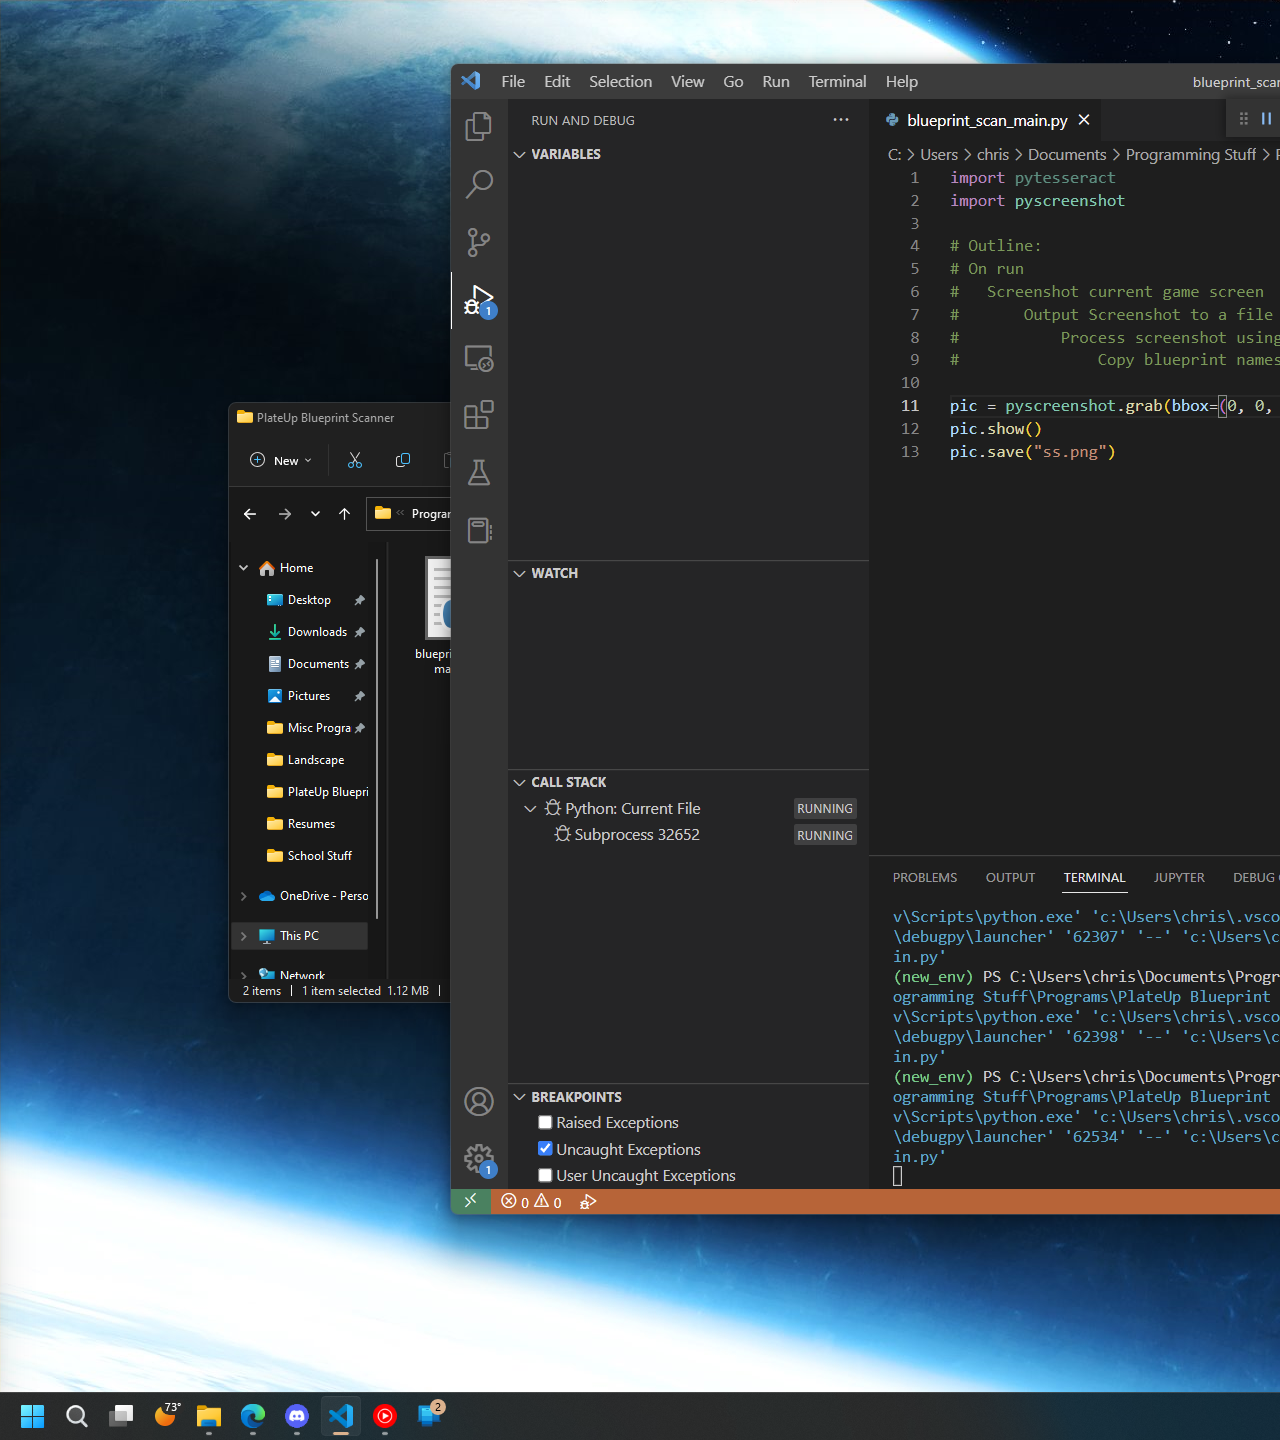
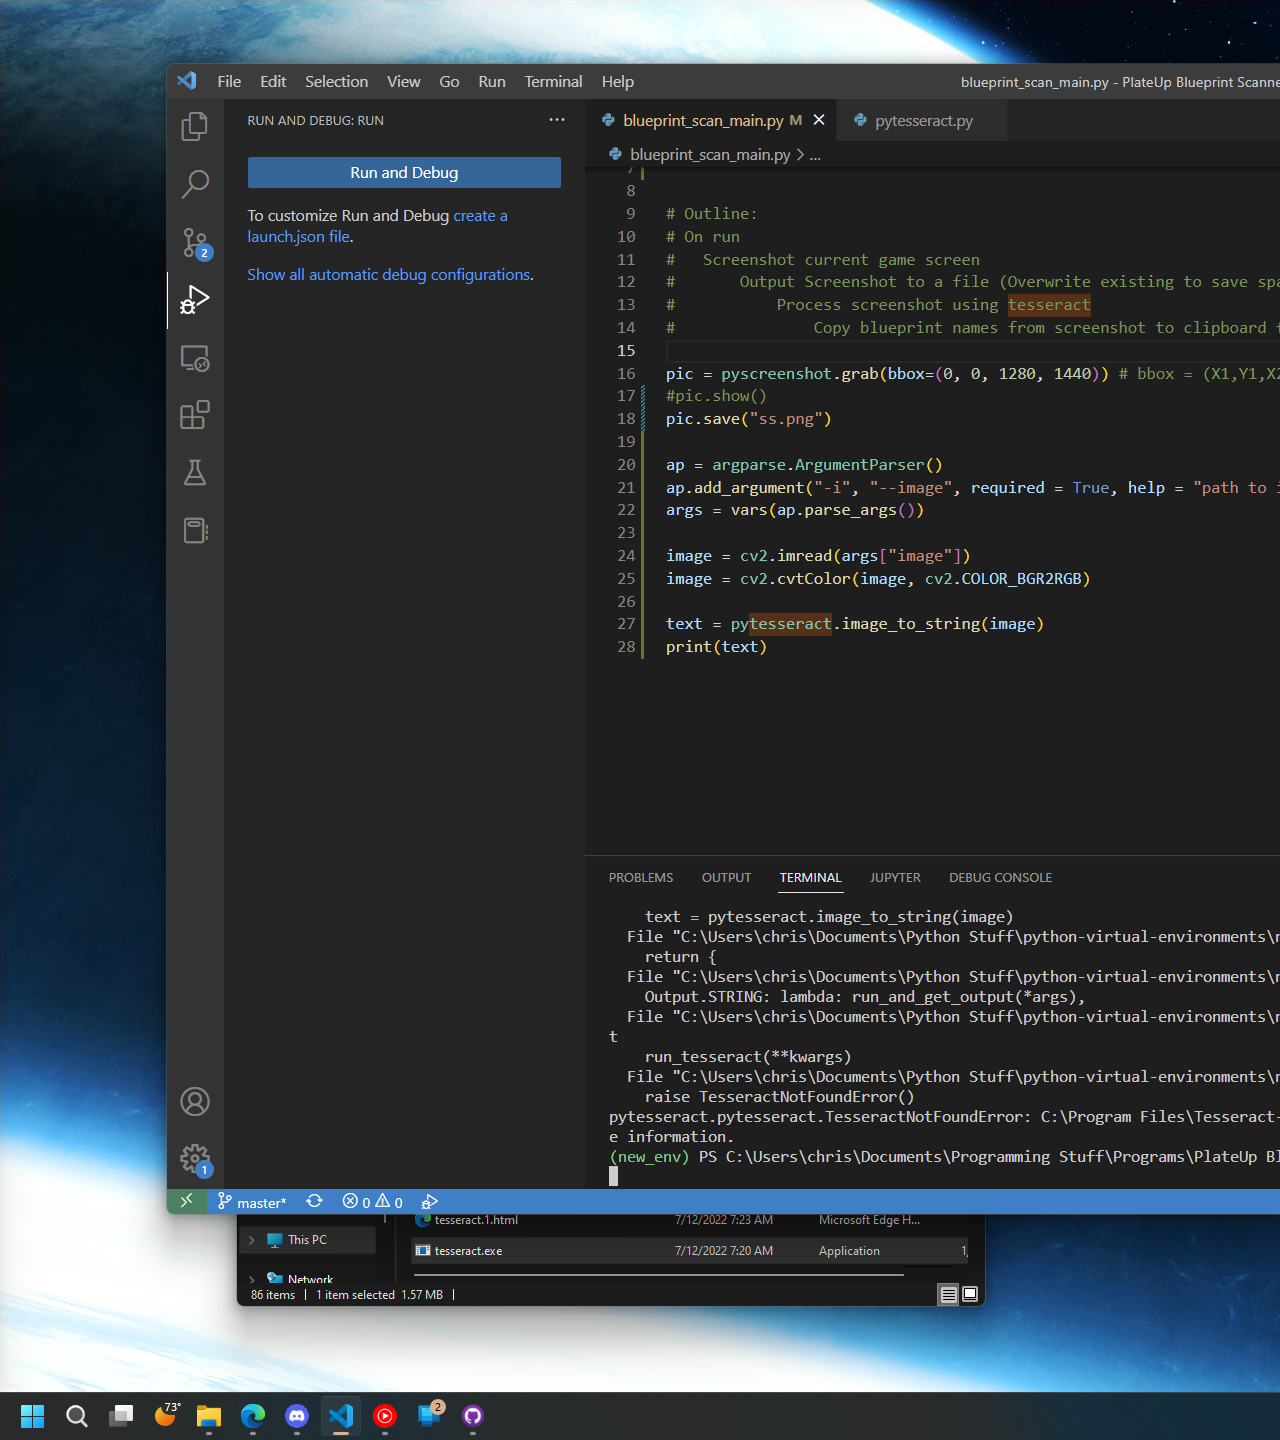
Edit to pytesseract.py's tesseract_cmd to fix

diff --git a/blueprint_scan_main.py b/blueprint_scan_main.py
@@ -1,5 +1,10 @@
 import pytesseract
 import pyscreenshot
+import argparse
+import cv2
+
+
+
 
 # Outline:
 # On run
@@ -9,5 +14,15 @@ import pyscreenshot
 #               Copy blueprint names from screenshot to clipboard for pasting into excel
 
 pic = pyscreenshot.grab(bbox=(0, 0, 1280, 1440)) # bbox = (X1,Y1,X2,Y2) X1,Y1 I think these are the corners of the screen maybe?
-pic.show()
-pic.save("ss.png") 
+#pic.show()
+pic.save("ss.png")
+
+ap = argparse.ArgumentParser()
+ap.add_argument("-i", "--image", required = True, help = "path to input image for OCR")
+args = vars(ap.parse_args())
+
+image = cv2.imread(args["image"])
+image = cv2.cvtColor(image, cv2.COLOR_BGR2RGB)
+
+text = pytesseract.image_to_string(image)
+print(text)
